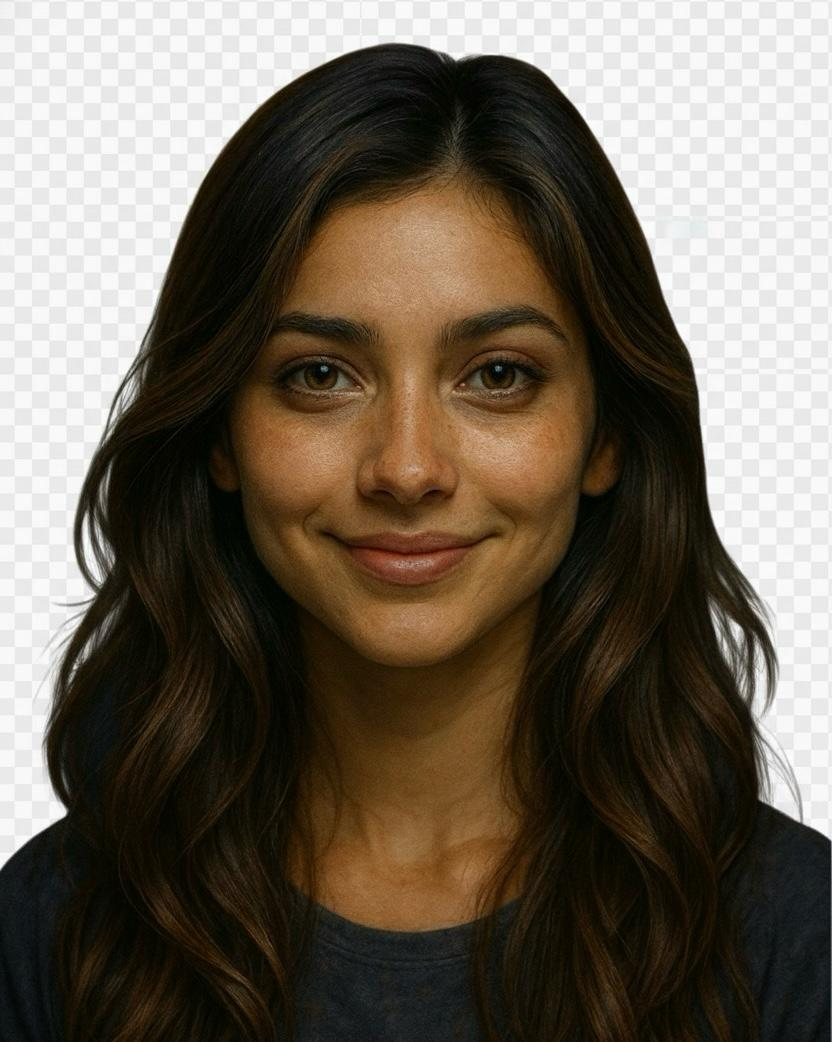
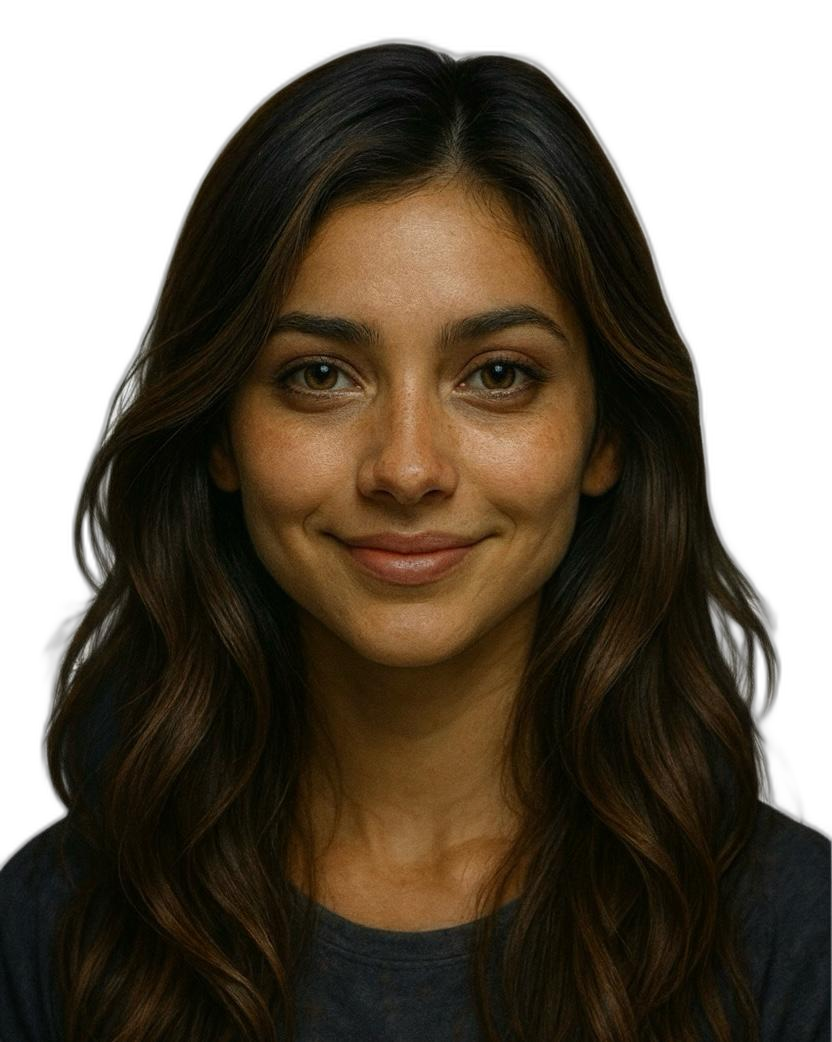
feat: update MARZ headshot with transparent background

diff --git a/remove_bg.py b/remove_bg.py
@@ -1,0 +1,84 @@
+#!/usr/bin/env python3
+"""
+Script to remove background from MARZ_Headshot.png and make it transparent
+"""
+
+import os
+from PIL import Image
+import numpy as np
+try:
+    from rembg import remove
+    HAS_REMBG = True
+except ImportError:
+    print("rembg not available, trying alternative approach...")
+    HAS_REMBG = False
+
+def remove_background_with_rembg(input_path, output_path):
+    """Remove background using rembg library"""
+    from rembg import remove
+    from PIL import Image
+    
+    # Open and process the image
+    input_image = Image.open(input_path)
+    
+    # Convert to RGB if necessary (rembg expects RGB)
+    if input_image.mode != 'RGB':
+        input_image = input_image.convert('RGB')
+    
+    # Remove background
+    output_image = remove(input_image)
+    
+    # Save with transparency
+    output_image.save(output_path, "PNG")
+    print(f"Background removed using rembg. Saved to {output_path}")
+
+def remove_background_simple_approach(input_path, output_path):
+    """
+    Simple approach to make white background transparent
+    This is a fallback if rembg is not available
+    """
+    img = Image.open(input_path)
+    
+    # Convert to RGBA if not already
+    if img.mode != 'RGBA':
+        img = img.convert('RGBA')
+    
+    # Get the data of the image
+    datas = img.getdata()
+    
+    newData = []
+    for item in datas:
+        # If the pixel is close to white, make it transparent
+        if item[0] > 200 and item[1] > 200 and item[2] > 200:  # RGB values near white
+            newData.append((255, 255, 255, 0))  # Transparent pixel
+        else:
+            newData.append(item)
+    
+    img.putdata(newData)
+    img.save(output_path, "PNG")
+    print(f"Background removed using simple approach. Saved to {output_path}")
+
+def main():
+    input_path = "public/MARZ_Headshot.png"
+    output_path = "public/MARZ_Headshot_transparent.png"
+    
+    if not os.path.exists(input_path):
+        print(f"Input file {input_path} does not exist!")
+        return
+    
+    print("Attempting to remove background from MARZ headshot...")
+    
+    if HAS_REMBG:
+        try:
+            remove_background_with_rembg(input_path, output_path)
+        except Exception as e:
+            print(f"Rembg approach failed: {e}")
+            print("Trying simple approach...")
+            remove_background_simple_approach(input_path, output_path)
+    else:
+        remove_background_simple_approach(input_path, output_path)
+    
+    print("Process completed!")
+
+if __name__ == "__main__":
+    main()
